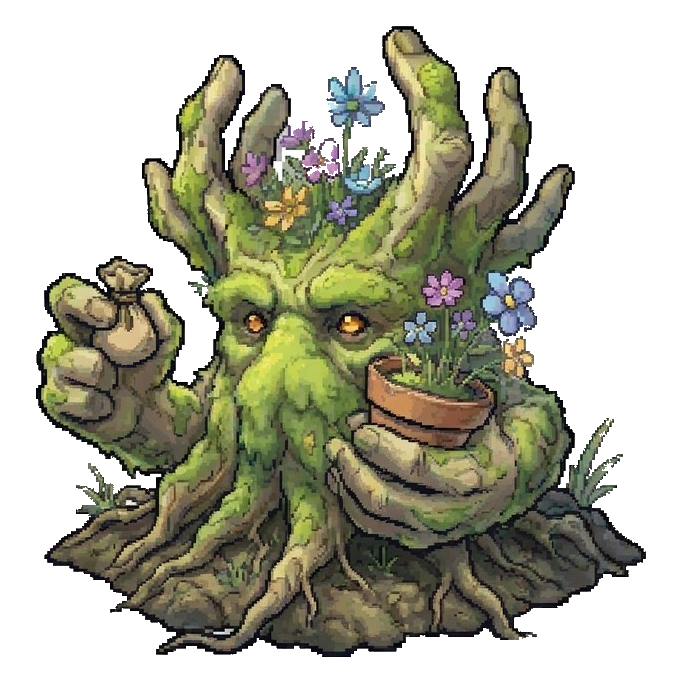
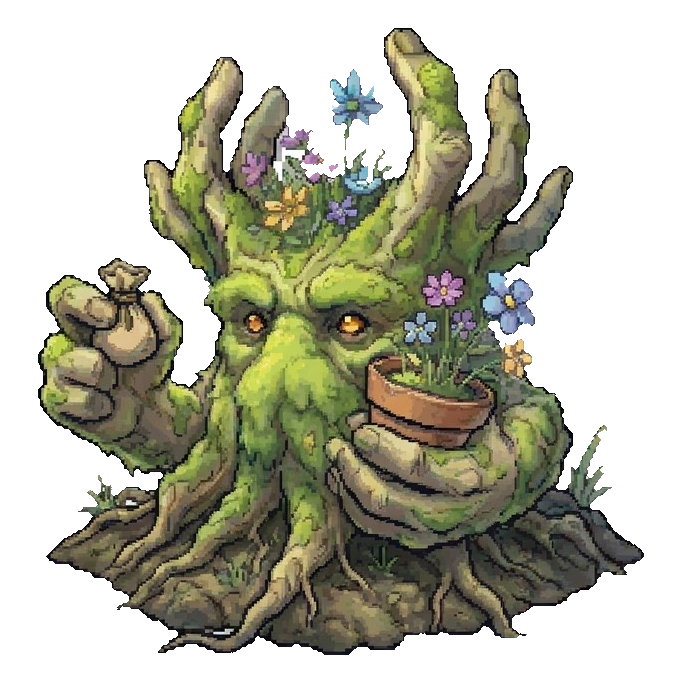
Animasi jalan MC (4 arah x 3 frame) + bersihkan edge sprite (MC + Crypture)
- Edge cleanup: keying latar JPEG hanya 2 warna checkerboard spesifik +
  erosi tepi (1px MC, 2px Crypture) + despeckle -> hilang halo putih di
  tepi. Re-defringe verduck/pyruff/ripplet/mosswhim (+back).
- Sprite MC: ekstrak frame jalan dari sheet (row1=depan, row2=belakang,
  row3=kiri, row4=kanan; 3 frame/arah) -> seeker_<dir>_w0..2.png.
- ExploreZone3D & HubTown3D: _anim_sprite() siklus 3 frame jalan saat
  bergerak (~8fps), idle saat diam; _face_move() pilih arah.

Claude-Session: https://claude.ai/code/session_017cryWmWmrTAiDsFJSU2XSh

diff --git a/HANDOFF.md b/HANDOFF.md
@@ -53,7 +53,8 @@ sprite 2D billboard di dunia 3D miring. Ada GDD lengkap (docx) milik owner; inti
 ## 5. Status art (sprite asli owner)
 Sudah ada Crypture: **Verduck** (front+back), **Pyruff** (front=rubah api + back), **Ripplet** (front=makhluk air + back), **Mosswhim** (front).
 Masih placeholder: **Cappin, Glimmoth, Pebblion, Gustling, Brookling**, Eldergrove (semua front), + back utk yg belum.
-MC/Seeker overworld: **4 arah** (front/back/left/right) di `assets/world/seeker*.png` — billboard ganti tekstur sesuai arah jalan (`_face_move`). Diekstrak dari sprite sheet owner (baris atas = 4 arah idle). Sisa baris sheet = frame jalan (belum dipakai; bisa utk walk-cycle nanti).
+MC/Seeker overworld: **4 arah + animasi jalan** di `assets/world/seeker*.png`. Idle: `seeker{,_back,_left,_right}.png`; jalan: `seeker_<dir>_w0..2.png` (3 frame/arah). Billboard ganti tekstur via `_face_move` (arah) + `_anim_sprite` (siklus jalan saat bergerak, idle saat diam). Diekstrak dari sprite sheet owner (baris0=idle 4 arah, baris1-4=jalan depan/belakang/kiri/kanan).
+Catatan kebersihan: keying latar JPEG cuma 2 warna checkerboard spesifik + **erosi tepi 1-2px + despeckle** (lihat skrip di histori) agar tak ada halo putih. Sprite Crypture asli (verduck/pyruff/ripplet/mosswhim + back) sudah di-defringe ulang.
 
 **Cara pasang sprite dari owner:** owner kirim gambar di chat (sering webp/jpeg dengan latar kotak-kotak yang ter-*bake*).
 File upload TIDAK ada di disk — gambar ter-embed base64 di transkrip `~/.claude/projects/<...>/<session>.jsonl`
